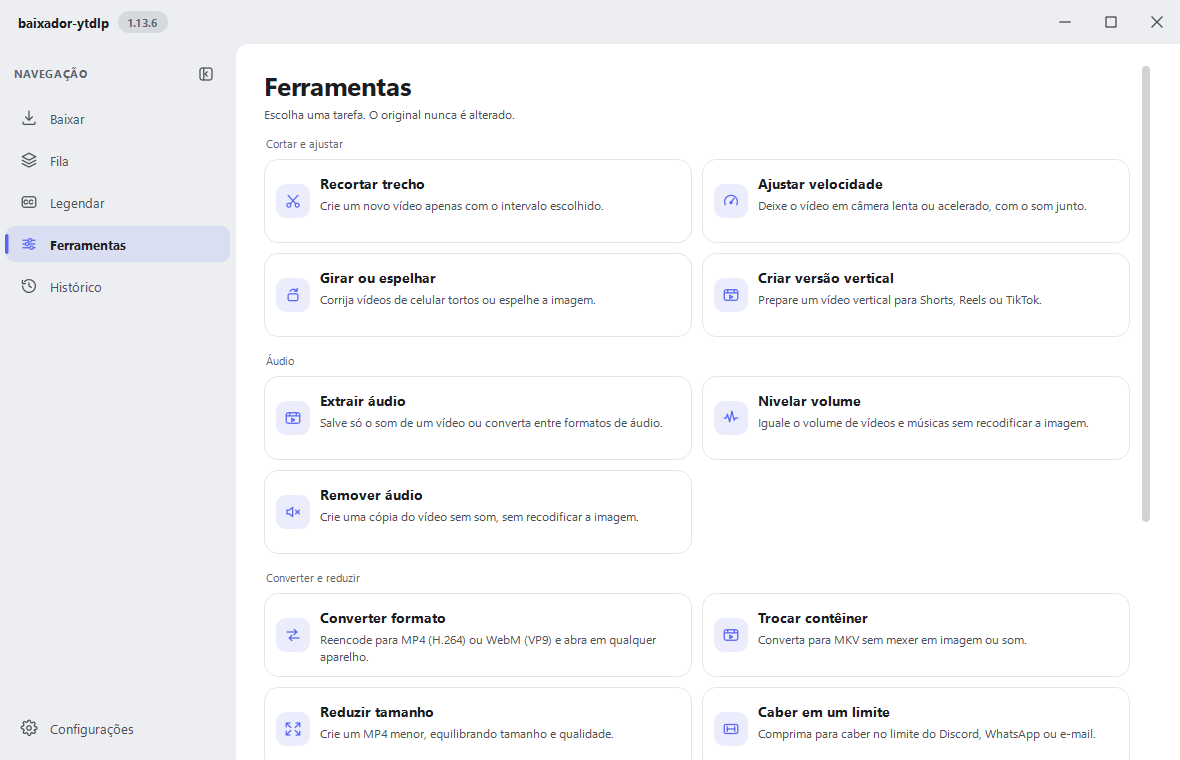
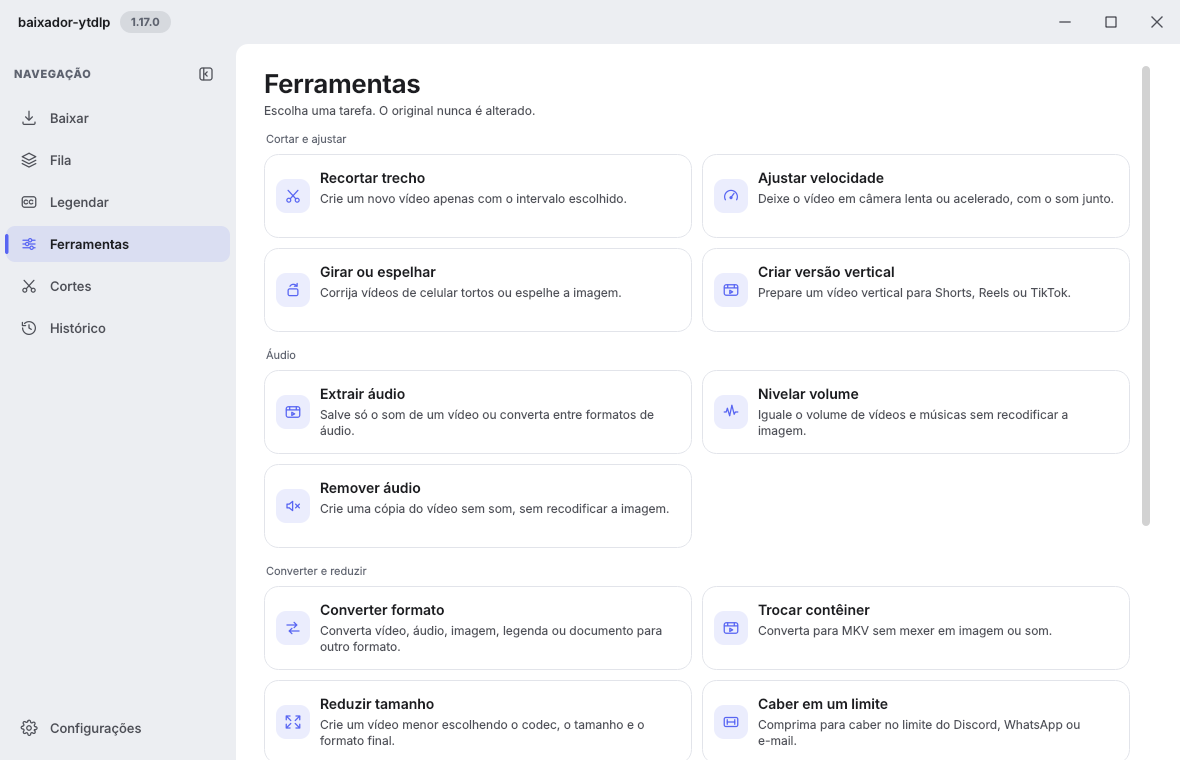
docs: atualiza os prints do README e adiciona a página Cortes
Os prints eram da 1.13.6: faltavam a página Cortes no menu e os textos novos de
Ferramentas (conversor geral e compressor). Agora mostram a 1.17.0 e a seção
Cortes verticais ganhou o próprio print.

O script de capturas passa a usar uma pasta de downloads de exemplo e os botões
da moldura do Windows mesmo rodando no Linux, para o README não mostrar
/root/Videos nem o "X" do Linux.

Claude-Session: https://claude.ai/code/session_01LFBSxunJwNg3sqxHUmAUnf

diff --git a/scripts/capture_screenshots.py b/scripts/capture_screenshots.py
@@ -16,7 +16,10 @@ sys.path.insert(0, str(ROOT))
 os.environ["BAIXADOR_YTDLP_DATA_DIR"] = tempfile.mkdtemp(prefix="baixador-capturas-")
 
 WANTED = {("dark", "baixar"), ("light", "ferramentas"), ("dark", "legendar"),
-          ("dark", "configuracoes")}
+          ("dark", "configuracoes"), ("dark", "cortes")}
+# O README mostra o app no Windows: pasta de exemplo e botões da moldura do Windows mesmo
+# quando a captura roda no Linux ou no Mac (sem isso aparecia /root/Videos e o "X" do Linux).
+SAMPLE_DOWNLOAD_DIR = r"C:\Users\Voce\Videos\baixador-ytdlp"
 
 
 def main() -> int:
@@ -25,8 +28,12 @@ def main() -> int:
 
     from baixador_ytdlp.config import Settings
     from baixador_ytdlp.tools import ToolManager
+    from types import SimpleNamespace
+
     from baixador_ytdlp.ui import main_window as mw
-    from baixador_ytdlp.ui import theme
+    from baixador_ytdlp.ui import shell, theme
+
+    shell.sys = SimpleNamespace(platform="win32")   # type: ignore[assignment]
 
     def wait(ms: int) -> None:
         loop = QEventLoop()
@@ -41,7 +48,8 @@ def main() -> int:
         theme.set_mode(mode)
         theme.apply(app)
         cfg = Settings(theme=mode, mica=False, history_enabled=False, resume_queue=False,
-                       window_rect=[100, 60, 1180, 760], tray_notifications=False)
+                       window_rect=[100, 60, 1180, 760], tray_notifications=False,
+                       download_dir=SAMPLE_DOWNLOAD_DIR)
         cfg.save = lambda *args, **kwargs: None
         with tempfile.TemporaryDirectory() as tmp:
             window = mw.MainWindow(cfg, ToolManager(bin_dir=Path(tmp)))
@@ -49,7 +57,8 @@ def main() -> int:
             window.show()
             wait(1500)
             pages = (("baixar", window.home), ("ferramentas", window.media_tools),
-                     ("legendar", window.transcription), ("configuracoes", window.settings))
+                     ("legendar", window.transcription), ("configuracoes", window.settings),
+                     ("cortes", window.clips))
             for name, page in pages:
                 if (mode, name) not in WANTED:
                     continue

diff --git a/README.md b/README.md
@@ -104,6 +104,10 @@ e ferramentas de vídeo. Grátis, de código aberto e sem enviar nada para a nuv
 - Arquivos só de áudio e vídeos sem som são recusados logo no início, com o motivo, em vez de falhar depois da transcrição. Vídeos de celular gravados "deitados" com marca de rotação são tratados como verticais.
 - Limitações: até 20 cortes por vez e 10 minutos por corte. A fonte escolhida precisa estar instalada no computador. O "seguir a pessoa" acompanha na horizontal (não faz zoom variável) e, se a análise falhar, o corte sai centralizado. Para saber quem fala, a boca precisa aparecer: com microfone na frente da boca, rosto de perfil ou muito pequeno (menos de ~25 px), a cena é tratada como "ninguém falando"; duas pessoas falando ao mesmo tempo podem confundir o modelo, que olha mais a boca do que o som. Em conversas muito rápidas a câmera fica pelo menos 2 s em cada pessoa. Num link, o trecho é baixado sem recodificar e o app compensa a sobra até o quadro-chave pela duração; em raros casos o início pode variar uma fração de segundo.
 
+<div align="center">
+<img src="docs/images/cortes-dark.png" alt="Página Cortes" width="720">
+</div>
+
 ### Interface
 
 - Tema claro e escuro, **português e inglês**, barra lateral compacta e ícones próprios.

diff --git a/README.en.md b/README.en.md
@@ -101,6 +101,10 @@ and video tools. Free, open source, and nothing leaves your computer.
 - Audio-only files and videos without sound are refused right away, with the reason, instead of failing after transcription. Phone videos recorded "sideways" with a rotation flag are treated as vertical.
 - Limits: up to 20 clips at a time and 10 minutes per clip. The chosen font must be installed on the computer. "Follow the person" pans horizontally (no variable zoom) and, if the analysis fails, the clip is centered. From a link, the range is downloaded without re-encoding and the app compensates the extra lead-in up to the keyframe; rarely the start may shift by a fraction of a second.
 
+<div align="center">
+<img src="docs/images/cortes-dark.png" alt="Clips page" width="720">
+</div>
+
 ### Interface
 
 - Light and dark themes, **Portuguese and English** (Settings → Appearance), compact sidebar and custom icons.
